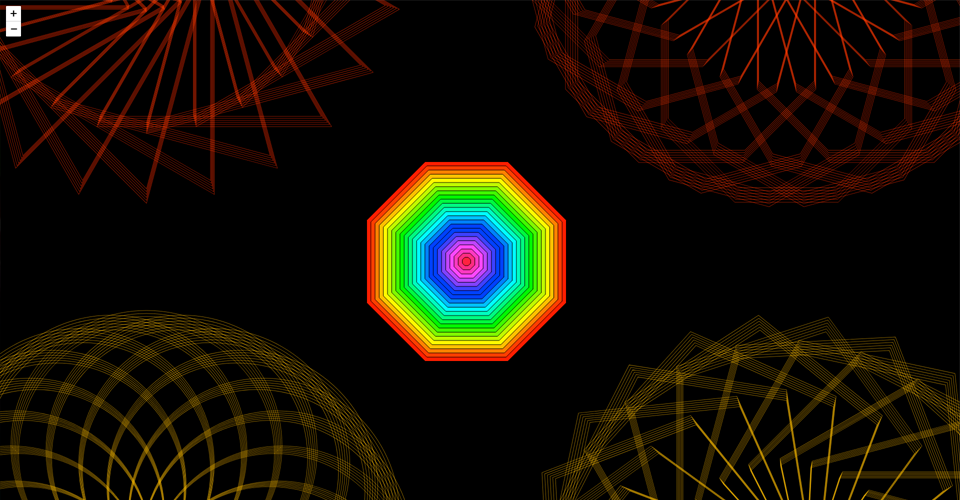
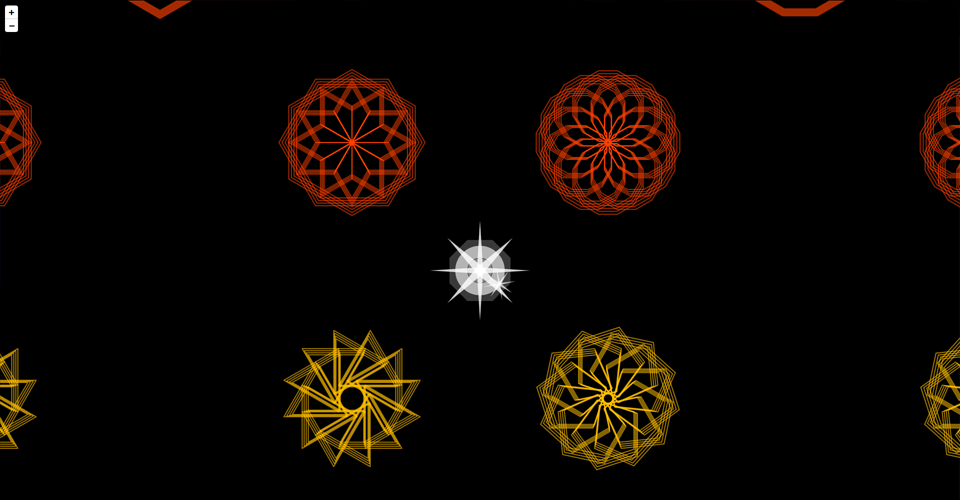
I decided I didn't like what I had to represent the center of the map so have replaced it with the same glyph used at the center of every octagon zone but without any colour. This is much better and zooming from the starting point all the way to the center works great now.

diff --git a/sketch.js b/sketch.js
@@ -130,11 +130,10 @@ var octagonZone = {
      * @param {Number} y2		- bottom side of a map tile
      * @param {Number} hue      - used to create p5.js color objects
      * @param {Number} zm		- current zoom level on the map
-     * @param {String} tileKey	- unique key of the tile currently being drawn
      */
-    drawZone: function(p5, centerX, centerY, x1, x2, y1, y2, hue, zm, tileKey) {
+    drawZone: function(p5, centerX, centerY, x1, x2, y1, y2, hue, zm) {
         var zero = p5.map(0, x1, x2, 0, 256);
-        var maxWidth = p5.map(this.multiplier*0.2, x1, x2, 0, 256);
+        var maxWidth = p5.map(this.multiplier*0.2 + (zm/4), x1, x2, 0, 256);
         var weight = maxWidth - zero;
         var colour = p5.color(hue, 100, 100);
 
@@ -152,7 +151,13 @@ var octagonZone = {
             this.drawOutline(p5, centerX, centerY, x1, x2, y1, y2, weight, colour, zm, adjuster);
         }
 
-        this.drawGlyphs(p5, centerX, centerY, x1, x2, y1, y2, weight, hue, zm, tileKey);
+        //at zoom level 5 or greater
+        //a special glpyh is introduced at the center of the octagon zone
+        if(zm >= 5){
+            drawGrayGlyph(p5, [hue, 0, 50], centerX, centerY, x1, x2, y1, y2, zm, hue);
+        }
+
+        this.drawGlyphs(p5, centerX, centerY, x1, x2, y1, y2, weight, hue, zm);
     },
 
     /*
@@ -220,15 +225,6 @@ var octagonZone = {
             p5.vertex(cx, cy);
         }
         p5.endShape(p5.CLOSE);
-
-        var colorGlpyhSizes = [12.5, 50, 200, 400, 800, 1600];
-        //at zoom level 5 or greater
-        //a special glpyh is introduced at the center of the octagon zone
-        if(zm >= 5){
-            var sizePointer = zm - 5;
-            var glyph = new GrayGlyph();
-            glyph.draw([colour._getHue(), 0, 50], colorGlpyhSizes[sizePointer], p5, centerX, centerY, x1, x2, y1, y2, colour._getHue());
-        }
     },
 
     //a small collection of numbers represent different shapes
@@ -247,9 +243,8 @@ var octagonZone = {
      * @param {Number} weight	- stroke weight of the shape to be drawn
      * @param {Number} hue      - used to create p5.js color objects
      * @param {Number} zm		- current zoom level on the map
-     * @param {String} tileKey	- unique key of the tile currently being drawn
      */
-    drawGlyphs: function(p5, centerX, centerY, x1, x2, y1, y2, weight, hue, zm, tileKey){
+    drawGlyphs: function(p5, centerX, centerY, x1, x2, y1, y2, weight, hue, zm){
         var glyphWidth = 256 / ((x2-x1)/ (this.multiplier * 1.6)) / 2;
         var innerShapeSize = glyphWidth / 2;
         //work out which colours will be used
@@ -285,7 +280,6 @@ var octagonZone = {
                 }
             }
             else {
-
                 isVisible = isShapeWithinTile(xPos, yPos, x1, x2, y1, y2, octagonZone.multiplier);
                 if(isVisible){
                     var shapeSize = innerShapeSize;
@@ -376,12 +370,6 @@ var octagonZone = {
                 shapeFound = true;
                 break;
             }
-            if(debug){
-                console.log('noiseValue '+noiseValue);
-                console.log('shapeSelectorSum '+ (shapeSelectorSum/100));
-                console.log('i = ' + i);
-                console.log(this.shapeSelector[this.shapeSelector.length - i - 1]);
-            }
         }
         if(!shapeFound){
             shapeSides = 12;
@@ -422,6 +410,12 @@ var octagonZone = {
 }
 octagonZone.init();
 
+/* the random number seed for the tour */
+var tourSeed = 100;
+/* triplets of locations: zoom, x, y */
+var tourPath = [
+  [10, 752.110351562500, 632.408203125000],
+];
 
 /* what is the initial zoom level (defaults to 0) */
 var initialZoomLevel = 0;
@@ -464,17 +458,16 @@ function drawGrid(p5, x1, x2, y1, y2, z, zoom) {
             hue = (i % 24) * 15;
 
             setTimeout(
-                function(p5js, cX, cY, leftX, rightX, topY, bottomY, h, zm, tk){
-                    return function() { octagonZone.drawZone(p5js, cX, cY, leftX, rightX, topY, bottomY, h, zm, tk); };
-                }(p5, zoneX, zoneY, x1, x2, y1, y2, hue, zoom, tileKey),
+                function(p5js, cX, cY, leftX, rightX, topY, bottomY, h, zm){
+                    return function() { octagonZone.drawZone(p5js, cX, cY, leftX, rightX, topY, bottomY, h, zm); };
+                }(p5, zoneX, zoneY, x1, x2, y1, y2, hue, zoom),
                 0
             );
-            if(i < 4){
-                drawCenterOfTheUniverse(p5, x1, x2, y1, y2, zoom);
+            if(i < 4 && zoom >= 5){
+                drawGrayGlyph(p5, [350, 100, 75], 512, 512, x1, x2, y1, y2, zoom);
             }
         }
     }
-
 }
 
 /*
@@ -530,26 +523,27 @@ function polygon(p5, x, y, radius, npoints) {
         p5.ellipse(x, y, radius * 2);
     }
 }
+
 /*
- * function to draw a octagon that represent the center of this universe
- * this octagon is made from 24 different hues - one for each octagon zone present within this universe
+ * creates a news GrayGlyph object and then draws it with a size depending on the current zoom level
  * @param {Object} p5       - the p5.js object
+ * @param {Array} hsb       - array of values representing a colour in HSB mode
+ * @param {Number} centerX  - center of the x-axis for the current octagon zone
+ * @param {Number} centerY  - center of the y-axis for the current octagon zone
  * @param {Number} x1       - left side of a map tile
  * @param {Number} x2		- right side of a map tile
  * @param {Number} y1 		- top side of a map tile
  * @param {Number} y2		- bottom side of a map tile
- * @param {Number} zm		- current zoom level
+ * @param {Number} zm		- current zoom level on the map
+ * @param {Number} spot_hue - value of the hue - a number between 0 and 359
  */
-function drawCenterOfTheUniverse(p5, x1, x2, y1, y2, zm){
-    var cx = p5.map(512, x1, x2, 0, 256);
-    var cy = p5.map(512, y1, y2, 0, 256);
-    for(var i = 0; i < 24; i++){
-        hue = (i % 24) * 15;
-        p5.fill(hue, 100, 100);
-        polygon(p5, cx, cy, (24 * zm)  - (i* zm), 8);
-    }
-    p5.noFill();
+function drawGrayGlyph(p5, hsb, centerX, centerY, x1, x2, y1, y2, zm, spot_hue = 360) {
+    var colorGlpyhSizes = [12.5, 50, 200, 400, 800, 1600];
+    var sizePointer = zm >= 5 ? zm - 5 : 0;
+    var glyph = new GrayGlyph();
+    glyph.draw(hsb, colorGlpyhSizes[sizePointer], p5, centerX, centerY, x1, x2, y1, y2, spot_hue);
 }
+
 
 /*
  * function to draw a red rectangle to show how big the frame used on blocks.org is

diff --git a/grayglyph.js b/grayglyph.js
@@ -40,7 +40,7 @@ function GrayGlyph() {
    * @param {Number}  spotMin    	 - minimum hue value that determines whether or not to use the spot_hue - a number between 0 and 359
    * @param {Number}  spotMax   	 - maximum hue value that determines whether or not to use the spot_hue - a number between 0 and 359
    */
-  this.draw = function(values, size, p5, centerX, centerY, x1, x2, y1, y2, spot_hue = 0, spotMin = 0, spotMax = 0) {
+  this.draw = function(values, size, p5, centerX, centerY, x1, x2, y1, y2, spot_hue = 360, spotMin = 0, spotMax = 0) {
     //determine the center of the circle
     var center = size/2;
 
@@ -163,8 +163,12 @@ function GrayGlyph() {
 	}
 
     //draw the hexagon that represents the brightness dimension
-    p5.fill(spot_hue, 100, 100, brightnessTrans);
-    octagon(p5, center, center, size/2);
+    var oct_sat = 0;
+    if(spot_hue < 360){
+        oct_sat = 100;
+    }
+    p5.fill(spot_hue, oct_sat, 100, brightnessTrans);
+    octagon(p5, center, center, size/3);
 
 	//draw the stars that represent the hue dimension
     p5.noStroke();
@@ -172,10 +176,11 @@ function GrayGlyph() {
     p5.translate(center, center);
     p5.rotate(hueDegree);
 
-	var hsba = Array(spot_hue, 100, 100, hueTrans);
-
-
-	drawStar(p5, hsba, positions, 3);
+	var hsba = Array(spot_hue, 0, 100, hueTrans);
+    if(spot_hue < 360){
+        hsba[1] = 100;
+    }
+    drawStar(p5, hsba, positions, 3);
     p5.rotate(-hueDegree);
     p5.translate(-center, -center);
     hsba = Array(spot_hue, 100, 100, hueTrans);
